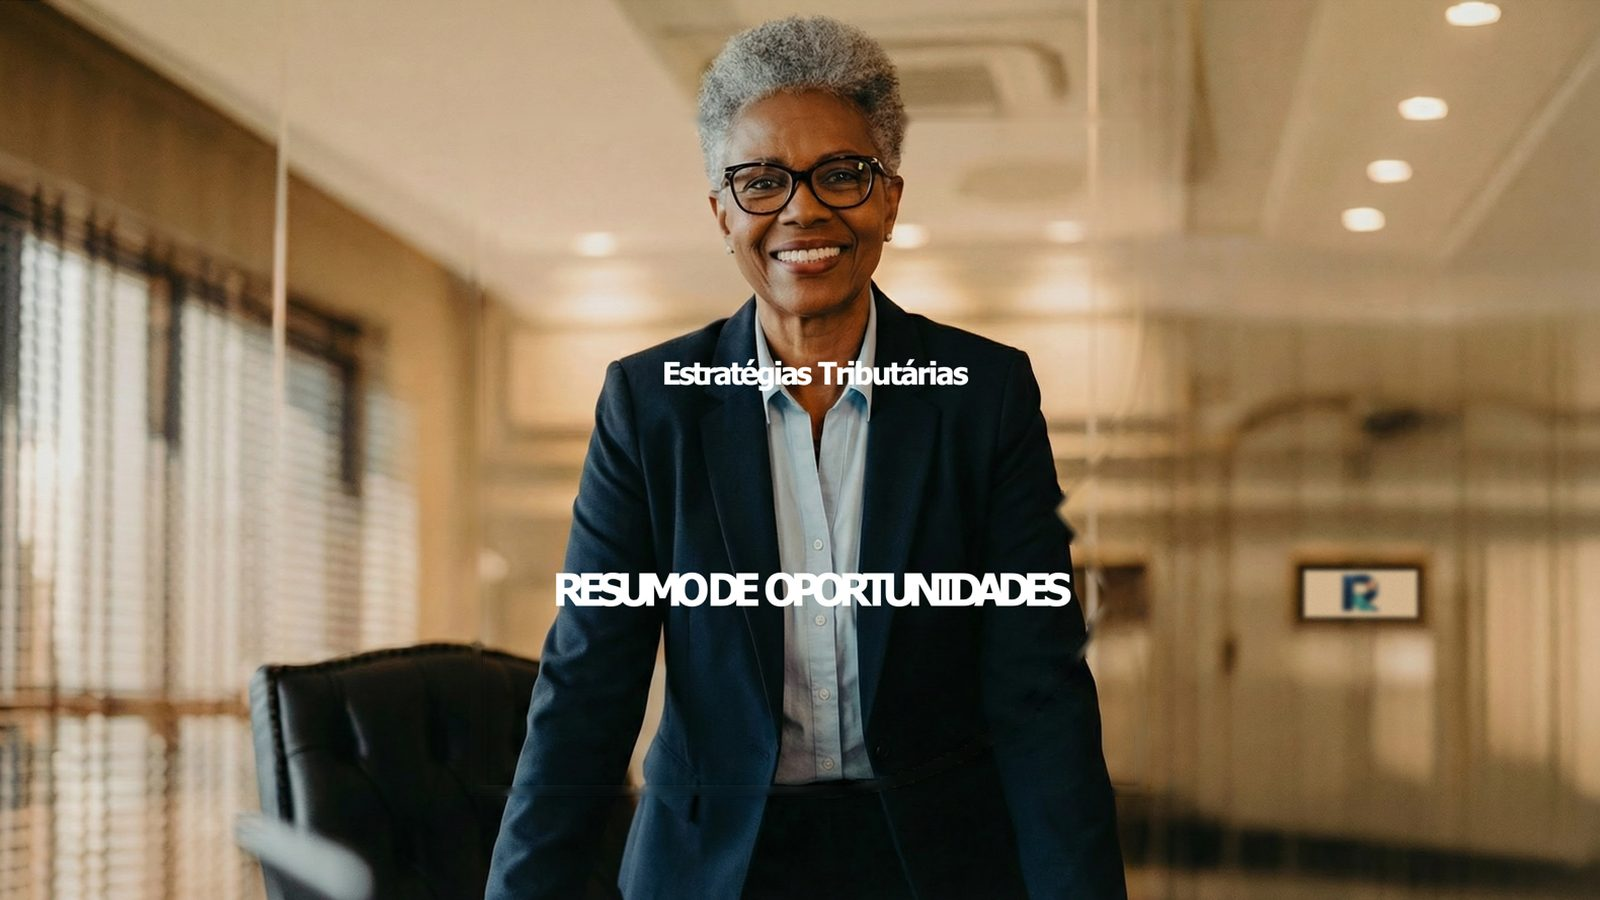
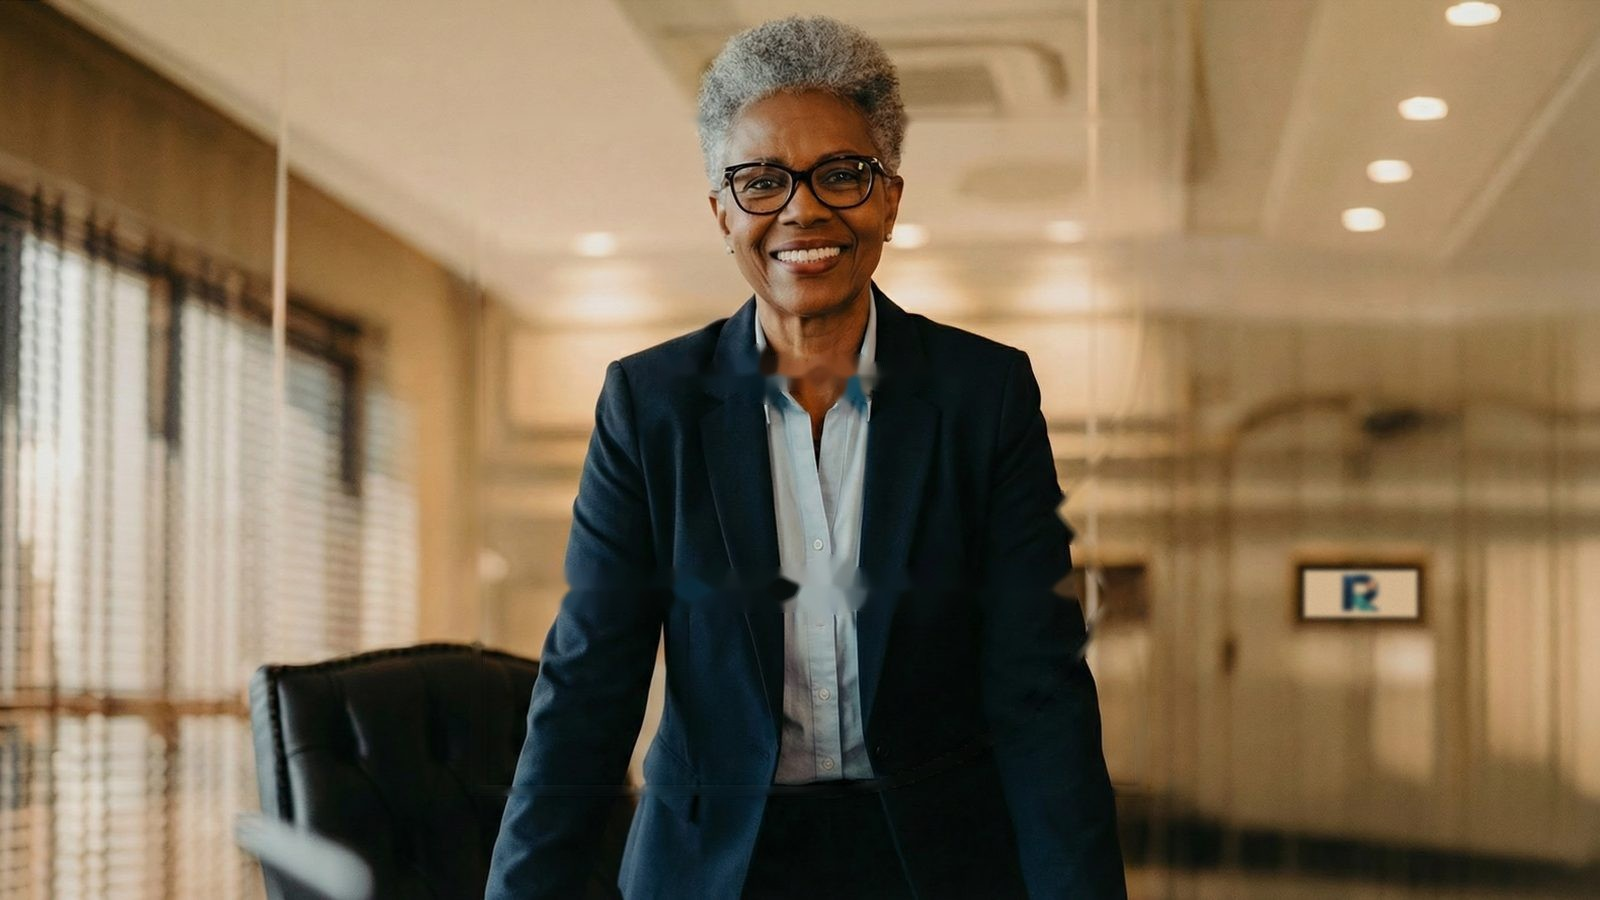
DTI: páginas 2 e 3 no padrão de fonte e formatação do documento
Claude-Session: https://claude.ai/code/session_01FQZcWEuEjDDwEMn3F21Tj5

Changed region(s): [[0.3438, 0.6222, 0.6875, 0.6844], [0.4062, 0.3733, 0.625, 0.4356]]

diff --git a/index.html b/index.html
@@ -995,29 +995,36 @@ footer { font-size: .8rem; color: var(--muted-fg); border-top: 1px solid var(--l
     doc.addPage();
     doc.setFillColor(COR.tinta[0], COR.tinta[1], COR.tinta[2]); doc.rect(0, 0, W, H, 'F');
     if (root.REVERSA_CAPA) { try { var iw = H * 16 / 9; doc.addImage(root.REVERSA_CAPA, 'JPEG', (W - iw) / 2, 0, iw, H); } catch (e) { /* segue sem foto */ } }
-    doc.setFillColor(COR.tinta[0], COR.tinta[1], COR.tinta[2]); doc.rect(0, H - 34, W, 34, 'F');
-    doc.setFillColor(COR.bronze[0], COR.bronze[1], COR.bronze[2]); doc.rect(0, H - 34, W, 1.2, 'F');
-    fonte('helvetica', 'bold', 18); doc.setTextColor(255, 255, 255); doc.text(t('Diagnóstico Técnico Inicial - DTI'), M, H - 20);
-    fonte('helvetica', 'normal', 10); doc.setTextColor(201, 214, 227); doc.text(t((nomeCli ? nomeCli + '  ·  ' : '') + dataBR(emissao)), M, H - 12);
-    fonte('helvetica', 'bold', 9); doc.setTextColor(111, 208, 199); doc.text(t('REVERSA TAX  ·  ARGUS PRIME'), W - M, H - 16, { align: 'right' });
+    var esc = H / 900, ox = (W - H * 16 / 9) / 2;
+    fonte('helvetica', 'bold', 24); doc.setTextColor(255, 255, 255); doc.text(t('Estratégias Tributárias'), ox + 815 * esc, 388 * esc, { align: 'center' });
+    fonte('helvetica', 'bold', 32); doc.text('RESUMO DE OPORTUNIDADES', ox + 812 * esc, 608 * esc, { align: 'center' });
+    doc.setFillColor(COR.tinta[0], COR.tinta[1], COR.tinta[2]); doc.rect(0, H - 30, W, 30, 'F');
+    doc.setFillColor(COR.cobre[0], COR.cobre[1], COR.cobre[2]); doc.rect(0, H - 30, W, 0.8, 'F');
+    fonte('helvetica', 'bold', 13); doc.setTextColor(255, 255, 255); doc.text(t('Diagnóstico Técnico Inicial - DTI'), M, H - 17);
+    fonte('helvetica', 'normal', 9.5); doc.setTextColor(201, 214, 227); doc.text(t((nomeCli ? nomeCli + '  ·  ' : '') + dataBR(emissao)), M, H - 10);
+    fonte('helvetica', 'bold', 8); doc.setTextColor(111, 208, 199); doc.text(t('REVERSA TAX  ·  UMA FERRAMENTA ARGUS PRIME'), W - M, H - 13.5, { align: 'right' });
 
+    // página 3: classificação, no mesmo padrão das demais páginas
     doc.addPage(); y = M;
-    doc.setFillColor(COR.cobre[0], COR.cobre[1], COR.cobre[2]); doc.rect(M, M + 4, 1.6, 14, 'F');
-    fonte('helvetica', 'bold', 24); cor(COR.tinta); doc.text(t('Como é feita a classificação'), M + 6, M + 15);
-    var colE = (W - 2 * M) * 0.36;
-    fonte('helvetica', 'normal', 12); cor(COR.suave);
-    var intro = doc.splitTextToSize(t('O levantamento das Oportunidades Tributárias levará em conta as seguintes classificações, embasadas no conceito da Deliberação CVM n.º 489 e do Pronunciamento do IBRACON NPC n.º 22, que determinam o reconhecimento do ativo e do correspondente ganho.'), colE);
-    doc.text(intro, M, M + 46, { lineHeightFactor: 1.9 });
-    var xD = M + colE + 22;
-    fonte('helvetica', 'bold', 22); cor(COR.tinta); doc.text('Administrativo', xD + 18, M + 44);
+    fonte('helvetica', 'bold', 8); cor(COR.bronze);
+    doc.setDrawColor(COR.cobre[0], COR.cobre[1], COR.cobre[2]); doc.setLineWidth(0.6); doc.line(M, y + 3, M + 10, y + 3);
+    doc.setCharSpace(1.2); doc.text('REVERSA TAX  ·  UMA FERRAMENTA ARGUS PRIME', M + 13, y + 4); doc.setCharSpace(0);
+    if (root.REVERSA_LOGO) { try { doc.addImage(root.REVERSA_LOGO, 'PNG', W - M - 60, M - 4, 60, 12); } catch (e) { /* segue sem logo */ } }
+    y += 18;
+    fonte('helvetica', 'bold', 28); cor(COR.tinta); doc.text(t('Como é feita a classificação'), M, y); y += 12;
+    var colE = (W - 2 * M) * 0.42, xD = M + colE + 14, y0 = y;
+    fonte('helvetica', 'normal', 9.5); cor(COR.tinta);
+    doc.text(doc.splitTextToSize(t('O levantamento das Oportunidades Tributárias levará em conta as seguintes classificações, embasadas no conceito da Deliberação CVM n.º 489 e do Pronunciamento do IBRACON NPC n.º 22, que determinam o reconhecimento do ativo e do correspondente ganho.'), colE), M, y0 + 7, { lineHeightFactor: 1.45 });
+    fonte('helvetica', 'bold', 13); cor(COR.tinta); doc.text('Administrativo', xD, y0);
+    doc.setDrawColor(COR.linha[0], COR.linha[1], COR.linha[2]); doc.setLineWidth(0.2); doc.line(xD, y0 + 2.5, W - M, y0 + 2.5);
     [['A', [26, 188, 166], 'Possível (> 80%)', 'Existe a possibilidade de ganho, mas o assunto não está pacificado.'],
      ['B', COR.cobre, 'Provável (> 50%)', 'Oportunidades onde existe maior possibilidade de ganho e risco baixo de autuação.'],
      ['C', [158, 166, 179], 'Remoto (< 40%)', 'Menor possibilidade de ganho, assunto embrionário ou pouco explorado.']].forEach(function (c, i) {
-      var cy = M + 70 + i * 30;
-      doc.setFillColor(c[1][0], c[1][1], c[1][2]); doc.circle(xD + 6, cy, 8.5, 'F');
-      fonte('helvetica', 'bold', 13); doc.setTextColor(255, 255, 255); doc.text(c[0], xD + 6, cy + 1.6, { align: 'center' });
-      fonte('helvetica', 'bold', 12); cor(COR.tinta); doc.text(t(c[2]), xD + 18, cy - 2.5);
-      fonte('helvetica', 'normal', 9.5); cor(COR.suave); doc.text(doc.splitTextToSize(t(c[3]), W - M - xD - 20), xD + 18, cy + 4);
+      var cy = y0 + 13 + i * 17;
+      doc.setFillColor(c[1][0], c[1][1], c[1][2]); doc.circle(xD + 4.5, cy, 4.5, 'F');
+      fonte('helvetica', 'bold', 9.5); doc.setTextColor(255, 255, 255); doc.text(c[0], xD + 4.5, cy + 1.2, { align: 'center' });
+      fonte('helvetica', 'bold', 9.5); cor(COR.tinta); doc.text(t(c[2]), xD + 13, cy - 1.5);
+      fonte('helvetica', 'normal', 9.5); cor(COR.suave); doc.text(doc.splitTextToSize(t(c[3]), W - M - xD - 13), xD + 13, cy + 3.3);
     });
     doc.addPage(); y = M;
 
